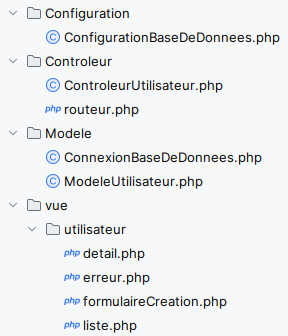
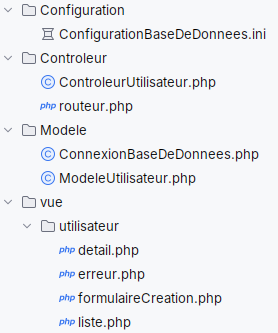
Mise à jour des dates des TDs et clarification des instructions de connexion à la base de données dans le TD2

diff --git a/tutorials/tutorial2.md b/tutorials/tutorial2.md
@@ -32,7 +32,7 @@ données.
 1. Connectez-vous à votre base de données MySQL, à l'aide de l'interface
    PhpMyAdmin
    [http://webinfo.iutmontp.univ-montp2.fr/my](http://webinfo.iutmontp.univ-montp2.fr/my).
-   Le login est votre login IUT et votre mot de passe initial est votre numéro INE (avec les lettres en majuscule).  
+   Le login est votre login IUT et votre mot de passe initial est votre numéro INE (avec les lettres en minuscules ou en majuscules selon les années).  
    **Si cela ne marche pas**, c'est que vous n'êtes probablement pas inscrit administrativement. Dans ce cas, demandez à votre chargé de TD ou allez voir le service informatique (bâtiment K, premier étage).
    
 

diff --git a/index.md b/index.md
@@ -17,14 +17,14 @@ Cours à l'IUT de Montpellier - 2ème année
 ## TDs
 
 {% comment %}
-Semaine 1 - lundi 1er septembre
-Semaine 2 - lundi 8 septembre
-Semaine 3 - lundi 15 septembre
-Semaine 4 - lundi 22 septembre
-Semaine 5 - lundi 29 septembre
-Semaine 6 - lundi 6 octobre
-Semaine 7 - lundi 13 octobre
-Semaine 8 - lundi 20 octobre
+Semaine 1 - lundi 7 septembre
+Semaine 2 - lundi 14 septembre
+Semaine 3 - lundi 21 septembre
+Semaine 4 - lundi 28 septembre
+Semaine 5 - lundi 5 octobre
+Semaine 6 - lundi 12 octobre
+Semaine 7 - lundi 19 octobre
+Semaine 8 - lundi 2 novembre
 {% endcomment %}
 
 ### Introduction à PHP et relation à la base de données (2 semaines)
